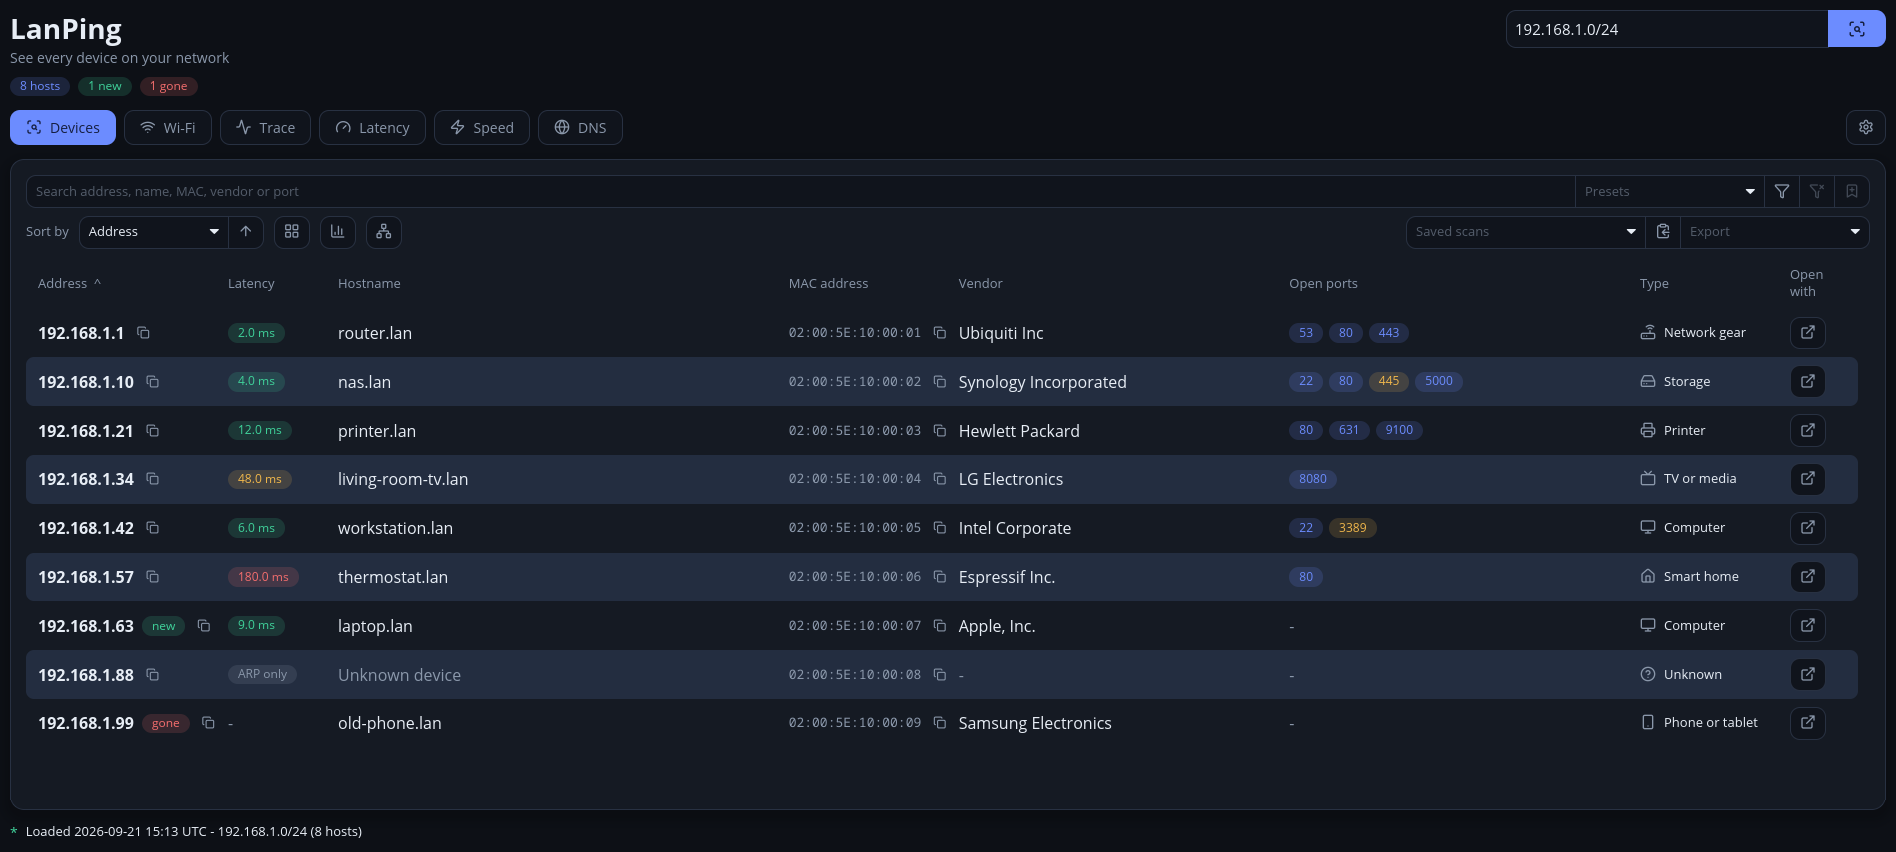
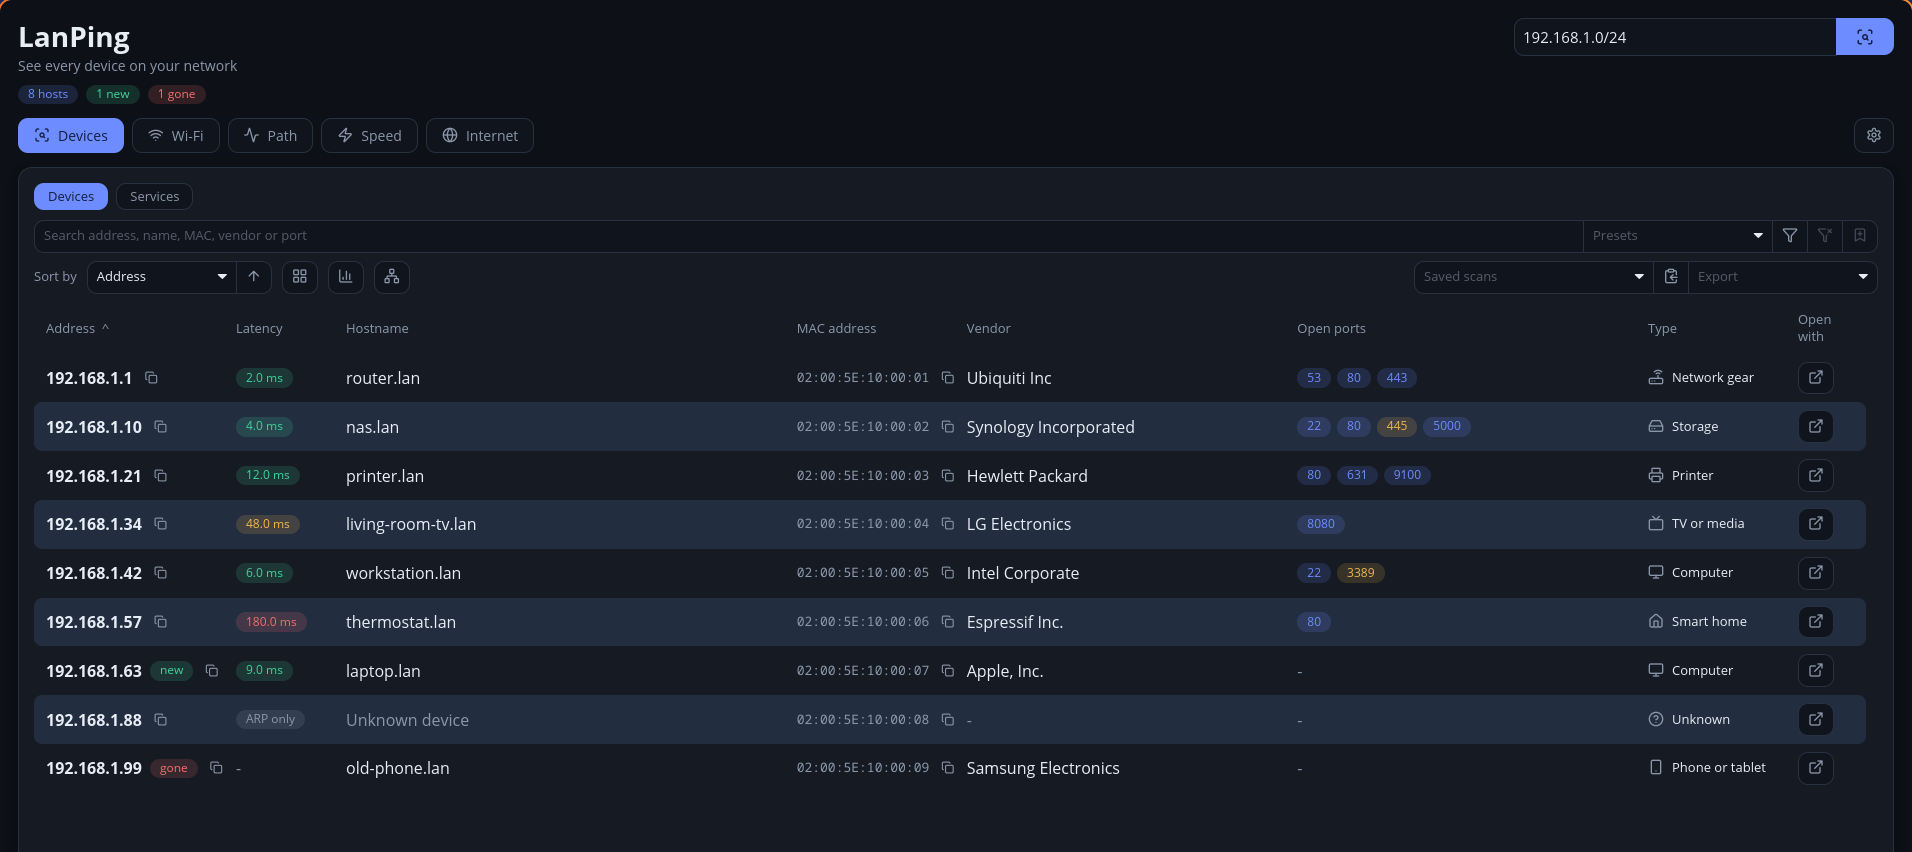
docs: rename the DNS tab to Internet and update the screenshot (#115)

diff --git a/crates/lanping/src/tabs.rs b/crates/lanping/src/tabs.rs
@@ -66,7 +66,7 @@ impl Tab {
             Self::Wifi => "Wi-Fi",
             Self::Path => "Path",
             Self::Speed => "Speed",
-            Self::Dns => "DNS",
+            Self::Dns => "Internet",
             Self::Router => "Router",
             Self::Network => "This computer",
             Self::Settings => "Settings",

diff --git a/README.md b/README.md
@@ -80,14 +80,14 @@ Get the latest build from [Releases](https://github.com/Gren-95/lanping/releases
 - A Speed tab measures download and upload speed against `speed.cloudflare.com` or against M-Lab's open NDT7 servers around the world (pick the nearest, or a country, and a server), and between two computers that run LanPing: start the test server on one (default port 5252) and run a test against it from the other. A test measures ping first, then download and upload (or only one of them), and shows the speed of each second as a graph. For M-Lab, pick the nearest servers or one of the countries M-Lab actually has a server in (the list comes from M-Lab itself; there is none in Estonia, so use "nearest" there)
 - Finished speed tests and latency runs are saved next to the saved scans and listed on the History page
 
-**DNS**
+**Internet**
 
-- A DNS tab looks up A, AAAA, MX, TXT, NS, PTR and CNAME records at the resolvers your system uses or at Cloudflare, Google and Quad9, and times all of them side by side. Queries are sent directly over UDP (TCP for long answers), so nothing extra is installed
+- The Internet tab (the old DNS tab) starts with a Lookup page that looks up A, AAAA, MX, TXT, NS, PTR and CNAME records at the resolvers your system uses or at Cloudflare, Google and Quad9, and times all of them side by side. Queries are sent directly over UDP (TCP for long answers), so nothing extra is installed
 - A WHOIS page in the same tab shows who is behind a domain name or an IP address: registrar, dates and name servers, or network name, organization and range, above the full answer
 
 **TLS**
 
-- A TLS page in the DNS tab reads the certificate chain a server presents on any host and port: subject, issuer, validity dates, days left and the names it is valid for, and says whether this system would trust it. Expired, self-signed and mismatched certificates are shown instead of failing, an optional server name lets you check an IP address on a server that hosts several sites, such as Caddy, and an open HTTPS port in the device menu offers a one-click check
+- A TLS page in the Internet tab reads the certificate chain a server presents on any host and port: subject, issuer, validity dates, days left and the names it is valid for, and says whether this system would trust it. Expired, self-signed and mismatched certificates are shown instead of failing, an optional server name lets you check an IP address on a server that hosts several sites, such as Caddy, and an open HTTPS port in the device menu offers a one-click check
 
 **SNMP**
 
@@ -115,7 +115,7 @@ Get the latest build from [Releases](https://github.com/Gren-95/lanping/releases
 
 **Pages of the tabs**
 
-- The DNS tab has five pages: Lookup, WHOIS, Website, Email records and TLS. The Path tab has three: Trace, Latency and MTU. The Router tab has three: SNMP, UPnP and Syslog. The This computer tab has three: My network, Clock and Subnet. The Devices tab has two: Devices and Services. Website checks a site's answer: the redirect chain, where the time goes (name lookup, connect, secure handshake, first byte), the TLS version, and whether HSTS, Content-Security-Policy, X-Content-Type-Options, clickjacking protection and Referrer-Policy are present and sensible. Email records shows a domain's MX records and grades its SPF (including the 10-lookup limit) and DMARC records, and looks for DKIM keys at twelve common names. MTU finds the largest packet that reaches a host without being split, which explains connections that stall or crawl over a VPN or PPPoE link; it uses the system `tracepath` where there is one (which also says at which hop the size dropped) and `ping` with the do-not-fragment flag elsewhere, and compares the result with the usual values. Each result comes with what it means in plain words, and none of them needs raw sockets
+- The Internet tab has five pages: Lookup, WHOIS, Website, Email records and TLS. The Path tab has three: Trace, Latency and MTU. The Router tab has three: SNMP, UPnP and Syslog. The This computer tab has three: My network, Clock and Subnet. The Devices tab has two: Devices and Services. Website checks a site's answer: the redirect chain, where the time goes (name lookup, connect, secure handshake, first byte), the TLS version, and whether HSTS, Content-Security-Policy, X-Content-Type-Options, clickjacking protection and Referrer-Policy are present and sensible. Email records shows a domain's MX records and grades its SPF (including the 10-lookup limit) and DMARC records, and looks for DKIM keys at twelve common names. MTU finds the largest packet that reaches a host without being split, which explains connections that stall or crawl over a VPN or PPPoE link; it uses the system `tracepath` where there is one (which also says at which hop the size dropped) and `ping` with the do-not-fragment flag elsewhere, and compares the result with the usual values. Each result comes with what it means in plain words, and none of them needs raw sockets
 
 **Syslog**
 
